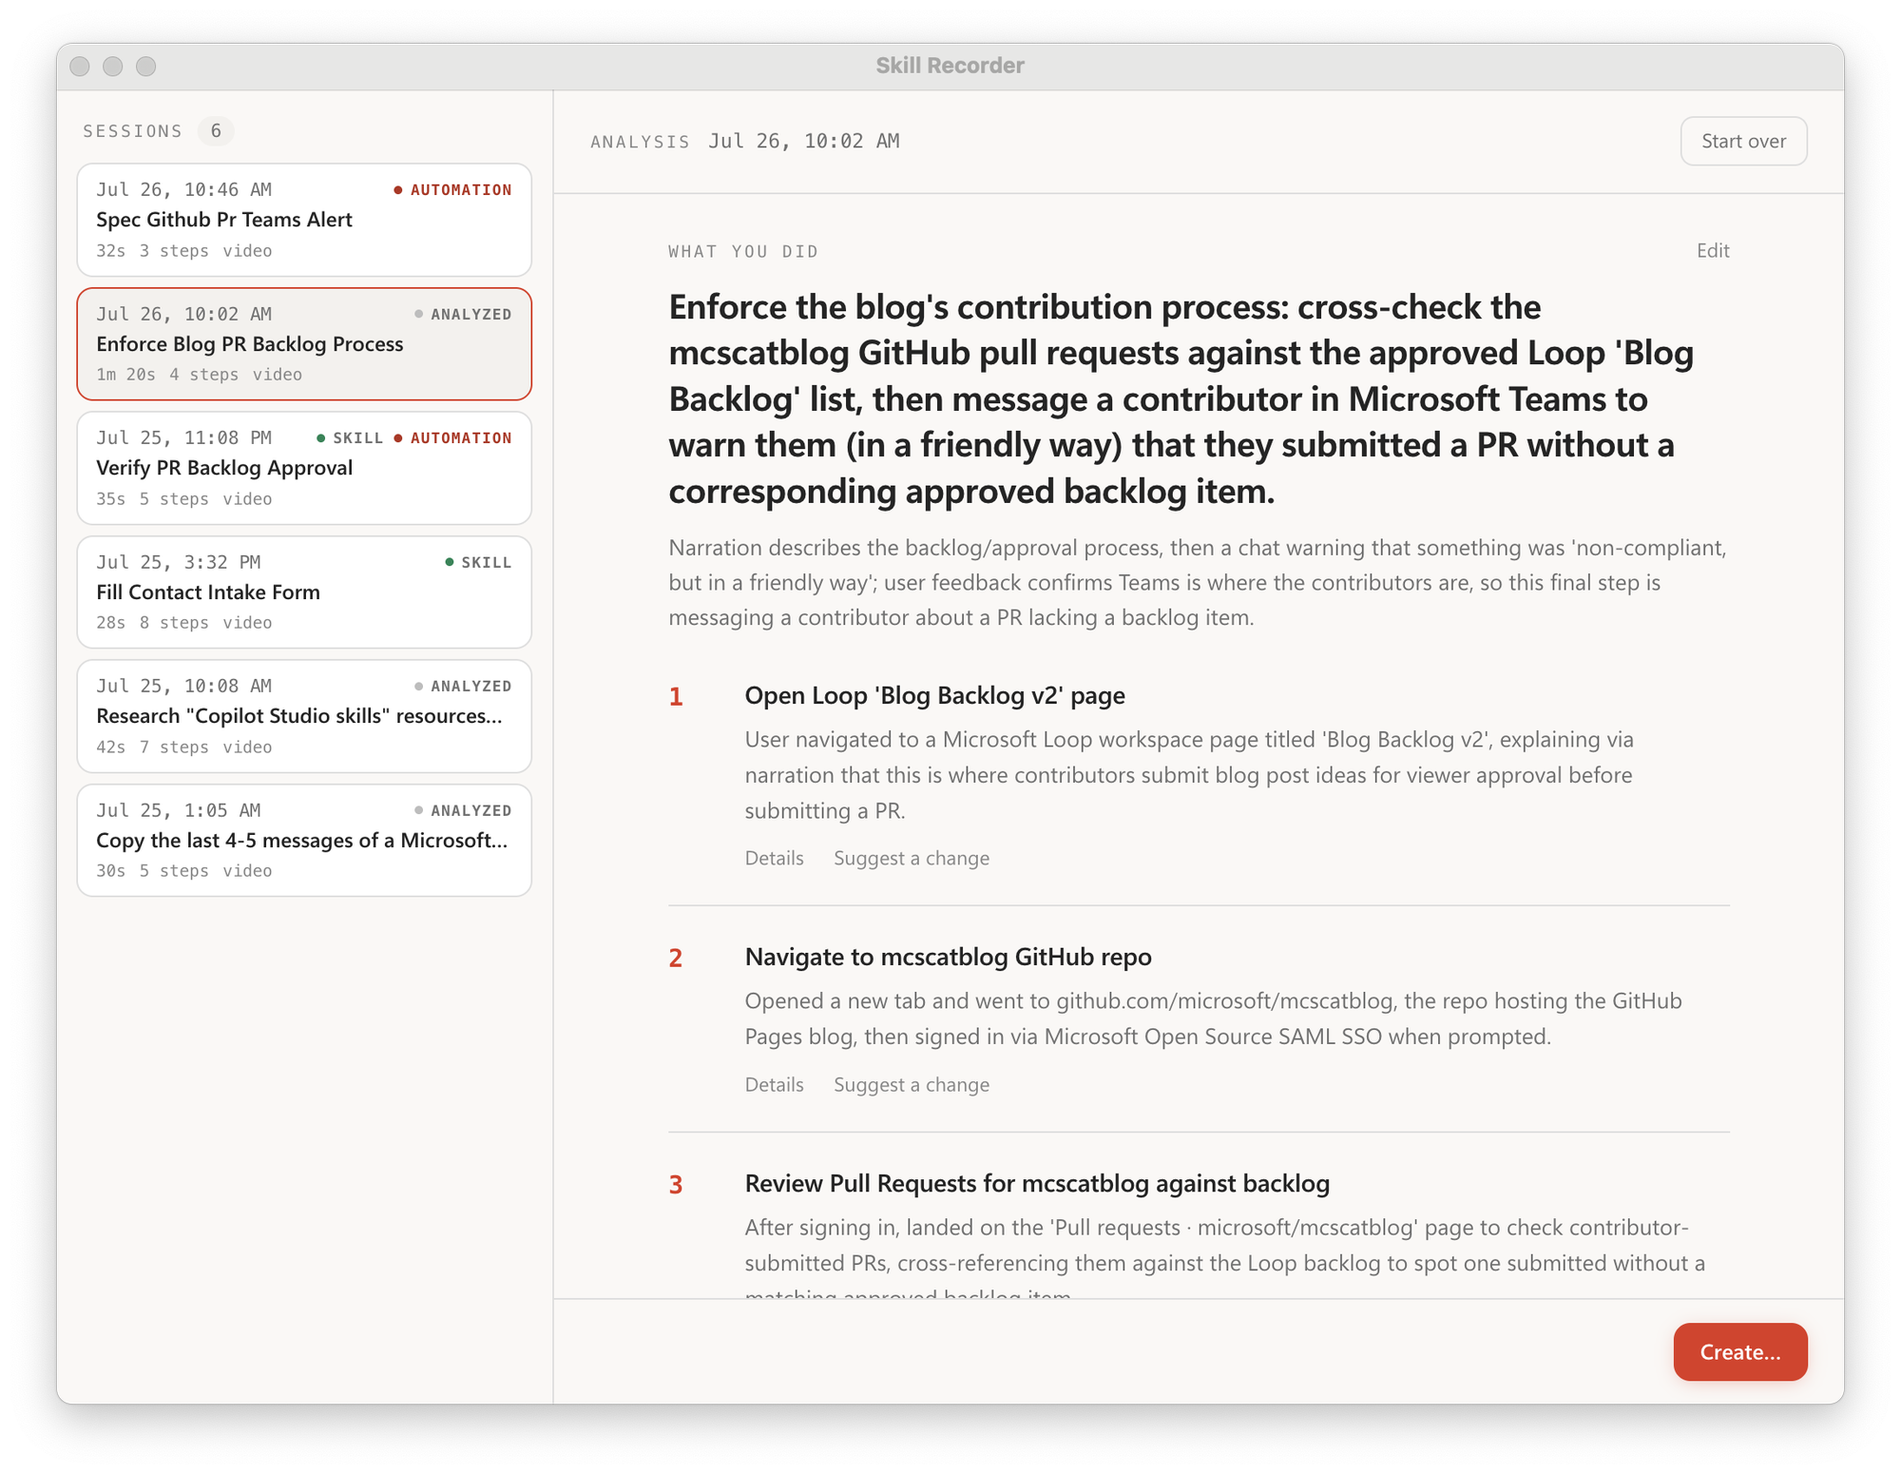
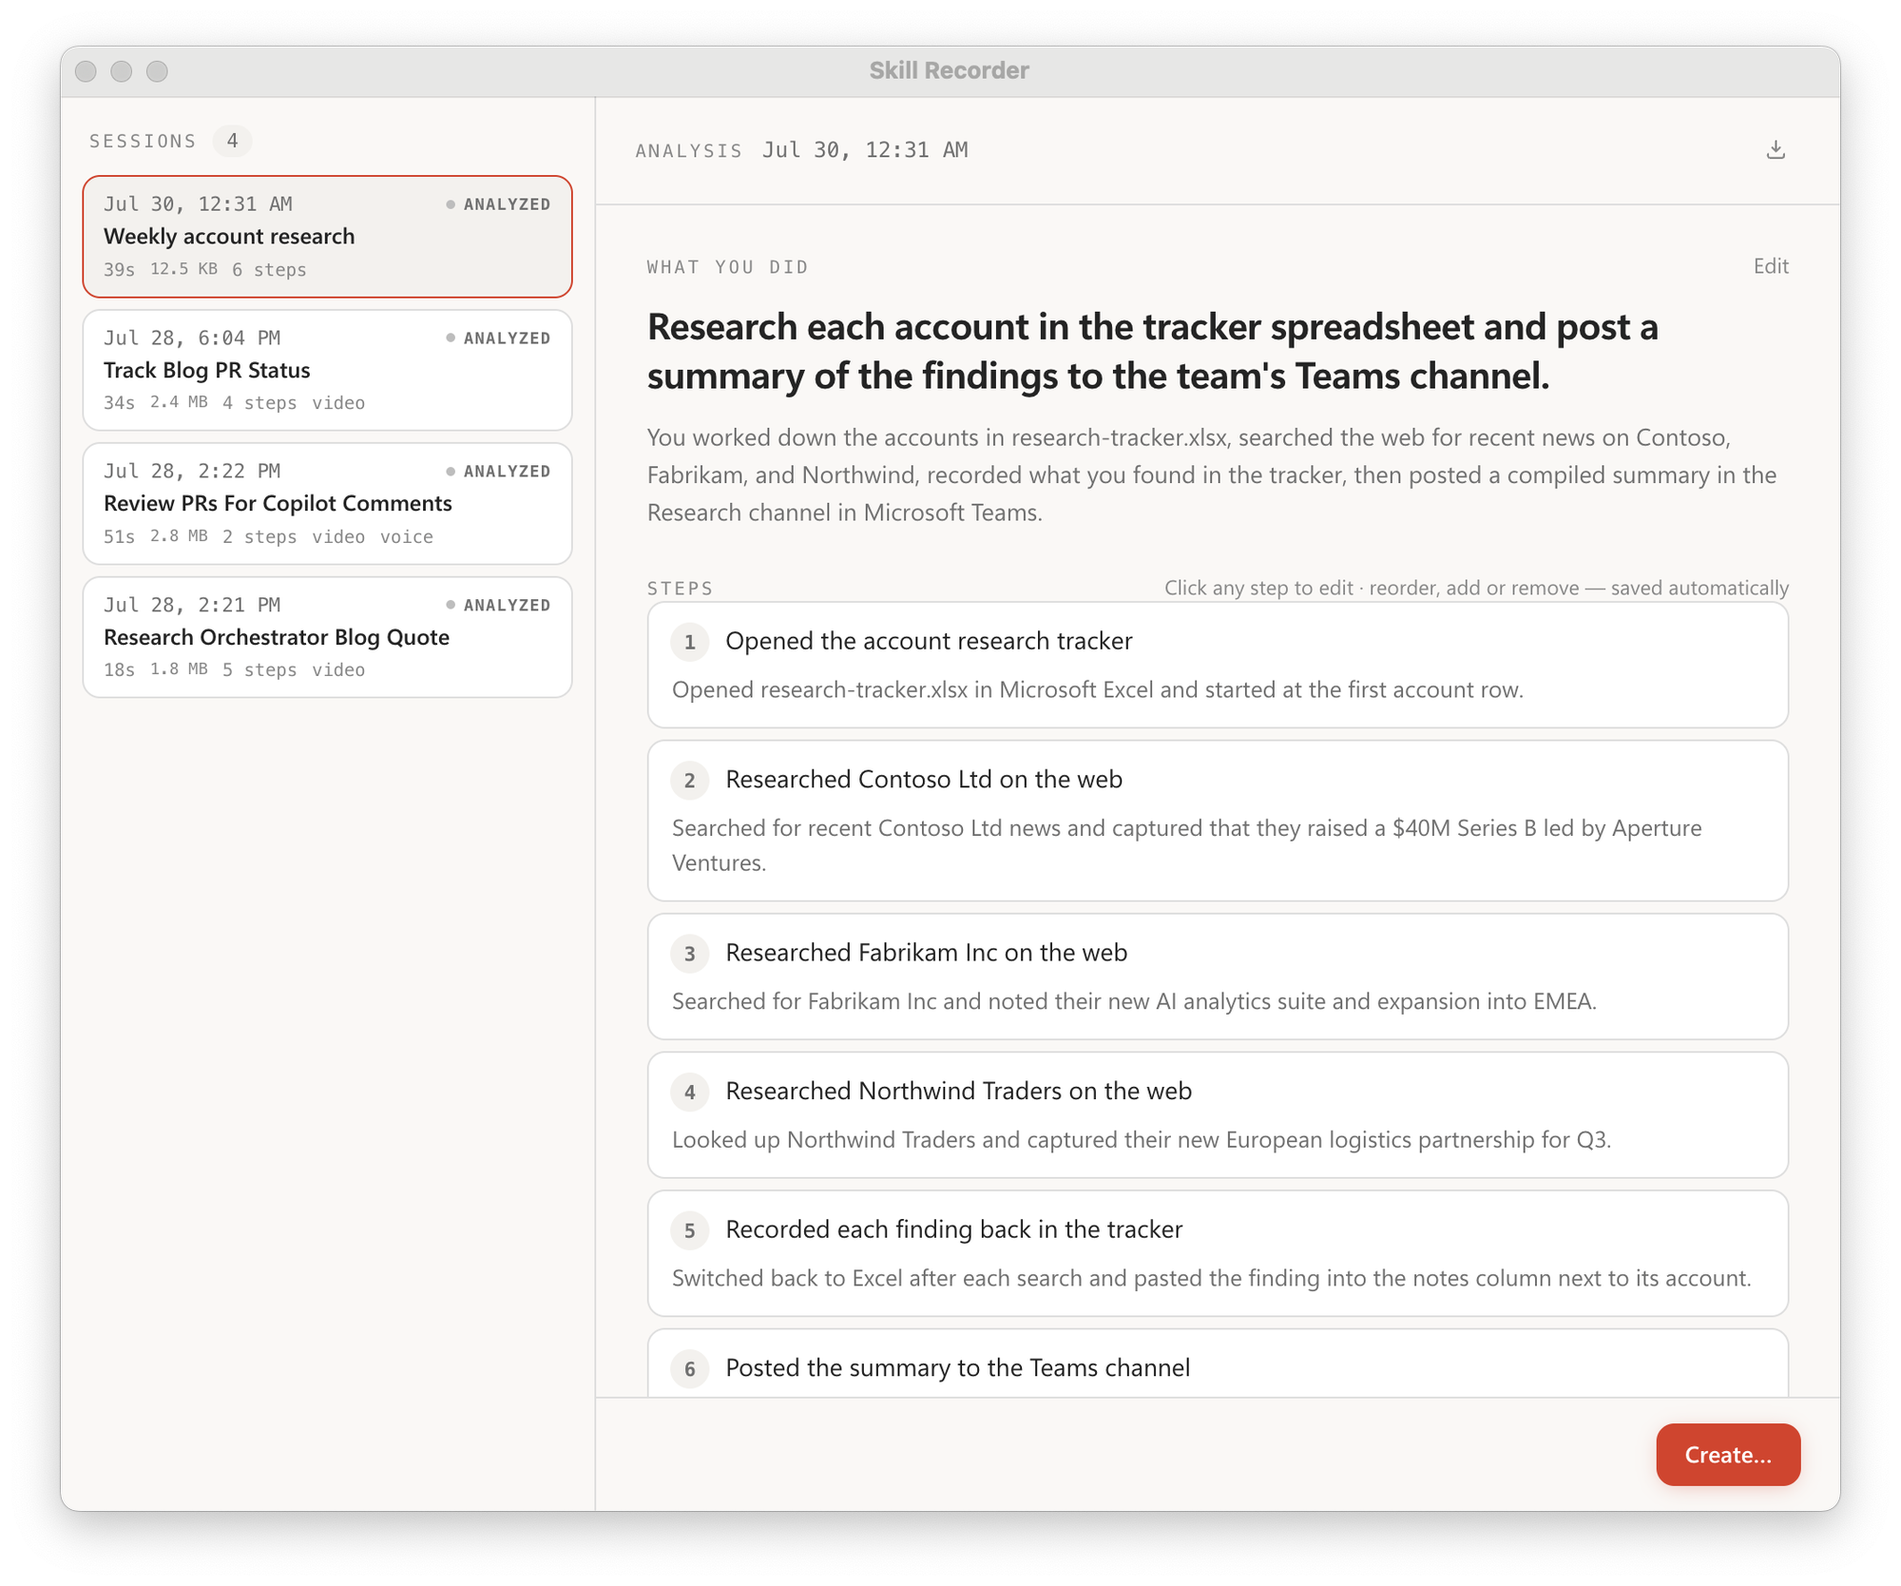
Update README screenshots to current HUD and sessions views (#27)
* Update README screenshots to current HUD and sessions views

Swap the two README images for up-to-date captures: the recorder HUD
with narration language/microphone settings, and the sessions view
showing a reconstructed intent with its ordered steps.

* Simplify README: clearer install flow, standalone Security/Support, no em-dashes

- Restructure Get started into 'Install it' / 'Then record' with per-platform
  command blocks and notes; lift the macOS-primary/Windows-supported note up top
- Point installs at the latest release page; keep the general command pattern
- Split Security and Support into their own sections
- Remove em-dashes throughout; de-duplicate the WINDOWS-VALIDATION link

---------

diff --git a/README.md b/README.md
@@ -1,158 +1,122 @@
 # Skill Recorder
 
-**Record yourself doing a task once — turn it into a skill your AI agent can repeat.**
+**Record yourself doing a task once, then turn it into a skill your AI agent can repeat.**
 
-Skill Recorder captures a real work session on your screen — the clicks, the app and
-window switches, the pages you visit, and (if you want) your spoken narration — then uses
+Skill Recorder captures a real work session on your screen: the clicks, the app and
+window switches, the pages you visit, and (if you want) your spoken narration. It then uses
 the **GitHub Copilot CLI** to reconstruct *what you actually did* as a clear **intent plus
 an ordered list of steps**. From there, one step turns that single run into something an
 agent can reuse:
 
-- a **Skill** — a `SKILL.md` procedure an agent runs on demand, or
-- an **Automation** — the same procedure on a schedule or trigger.
+- a **Skill**: a `SKILL.md` procedure an agent runs on demand, or
+- an **Automation**: the same procedure on a schedule or trigger.
 
 Both prefer the agent's **native tools** (like the `gh` CLI or `web_fetch`) over replaying
-UI clicks, and generalize from your one example — so recording yourself submitting *one*
+UI clicks, and generalize from your one example, so recording yourself submitting *one*
 form can teach the agent to submit *all* of them.
 
 <p align="center">
-  <img src="docs/images/recorder.png" alt="Skill Recorder capture window: a record button, timer, optional narration toggle, and readiness checks" width="420">
+  <img src="docs/images/recorder.png" alt="Skill Recorder capture window: a record button, timer, an optional narration toggle with language and microphone settings, and readiness checks" width="420">
   &nbsp;&nbsp;
-  <img src="docs/images/library.png" alt="Skill Recorder library: recorded sessions on the left, the reconstructed intent and ordered steps on the right" width="520">
+  <img src="docs/images/library.png" alt="Skill Recorder sessions view: recorded sessions on the left, the reconstructed intent and ordered steps on the right" width="520">
 </p>
 
 ## How it works
 
-1. 🔴 **Record** — Hit record (or `⌘⇧R` / `Ctrl+Shift+R` from anywhere) and just do your
+1. 🔴 **Record.** Hit record (or `⌘⇧R` / `Ctrl+Shift+R` from anywhere) and just do your
    task. Skill Recorder captures your screen and activity locally, in the background.
-2. 🎛 **Control** — While recording, a small always-on-top bar shows capture and
-   microphone state. Mute, unmute, or switch mics on the fly, then finish — or discard
+2. 🎛 **Control.** While recording, a small always-on-top bar shows capture and
+   microphone state. Mute, unmute, or switch mics on the fly, then finish, or discard
    (with a confirmation) if the take didn't go to plan.
-3. 🧠 **Analyze** — Click Analyze and GitHub Copilot reconstructs one overall intent and
+3. 🧠 **Analyze.** Click Analyze and GitHub Copilot reconstructs one overall intent and
    an ordered list of steps. Review and edit until it reads right.
-4. ✨ **Create** — From an approved analysis, generate a reusable **Skill** and/or a
+4. ✨ **Create.** From an approved analysis, generate a reusable **Skill** and/or a
    scheduled **Automation**.
 
 ## Get started
 
+Skill Recorder is published as a **source release**: one command downloads a pinned Node.js
+runtime, builds the exact release commit on your machine, and adds a **Skill Recorder (Source)**
+app you can relaunch anytime. Nothing is installed globally. You'll need a GitHub account with
+**Copilot access**; the Copilot CLI ships with the app.
+
+macOS is the primary target. Windows 11 (x64 and ARM64) is supported too (see
+[`WINDOWS-VALIDATION.md`](WINDOWS-VALIDATION.md)).
+
+### Install it
+
+Open the **[latest release](https://github.com/microsoft/skill-recorder/releases/latest)** and
+copy the command for your platform. Each release pins an exact commit, so the real command looks
+like the patterns below with `<40-character-release-commit>` filled in.
+
 **macOS / Ubuntu**
 
-```sh
+```bash
 commit="<40-character-release-commit>"; curl -fsSL "https://raw.githubusercontent.com/microsoft/skill-recorder/$commit/install.sh" | SKILL_RECORDER_COMMIT="$commit" bash
 ```
 
-The release commit pins both the downloaded script and the source it builds. To keep the
-application running after the terminal closes, add `SKILL_RECORDER_DETACHED=1` after the
-pipe:
+The commit pins both the downloaded script and the source it builds. To keep the app running
+after the terminal closes, add `SKILL_RECORDER_DETACHED=1` after the pipe:
 
-```sh
+```bash
 commit="<40-character-release-commit>"; curl -fsSL "https://raw.githubusercontent.com/microsoft/skill-recorder/$commit/install.sh" | SKILL_RECORDER_COMMIT="$commit" SKILL_RECORDER_DETACHED=1 bash
 ```
 
-On macOS the installer also adds a **Skill Recorder (Source)** app to `~/Applications`, so
-you can relaunch it later from Spotlight, Launchpad, or the Dock without re-running the
-command. On Ubuntu it adds a matching application entry.
+On macOS this adds a **Skill Recorder (Source)** app to `~/Applications` (relaunch from Spotlight,
+Launchpad, or the Dock). On Ubuntu it adds a matching application entry.
 
-**Windows**
+**Windows (PowerShell)**
 
-Use the commit-pinned source installer documented in [`INSTALL.md`](INSTALL.md). The
-published command must identify a full 40-character release commit. It downloads a
-verified portable Node.js 24 runtime, builds that exact source revision locally, preserves
-the required license materials, and creates **Skill Recorder (Source)** shortcuts on your
-desktop and in the Start Menu — all without installing Node system-wide. When it finishes
-it prints where both shortcuts were saved. Re-running the same command with the same
-commit reuses the installed revision instead of downloading and rebuilding it again.
+```powershell
+$commit="<40-character-release-commit>"; $env:SKILL_RECORDER_COMMIT=$commit; irm "https://raw.githubusercontent.com/microsoft/skill-recorder/$commit/install.ps1" | iex
+```
 
-Both paths install dependencies from their publishers and build Skill Recorder locally.
-The platform-specific Copilot CLI is installed with the application dependencies; a global
-CLI installation is not required. The first time you choose *Analyze* without stored
-Copilot credentials, Skill Recorder says so and offers **Sign in to Copilot**, which opens
-a terminal running the bundled CLI's `login` command (the same command is shown so you can
-run it yourself). On first launch, macOS asks for **Screen Recording**
-permission — grant it and you're ready to record.
+This adds **Skill Recorder (Source)** shortcuts to your desktop and Start Menu.
+
+### Then record
+
+1. **Grant Screen Recording.** On first launch, macOS asks for Screen Recording permission;
+   grant it and you're ready to record.
+2. **Record, Analyze, Create.** Do your task, then Analyze. The first time you Analyze,
+   Skill Recorder offers **Sign in to Copilot** if you aren't signed in yet.
+
+To inspect the script before running it, set install options, update, or uninstall, see
+[`INSTALL.md`](INSTALL.md).
 
 > ⚠ **Keep secrets out of your recordings.** Don't record, type, paste, or narrate
-> passwords, tokens, API keys, or other confidential info — choosing *Analyze* sends
+> passwords, tokens, API keys, or other confidential info. Choosing *Analyze* sends
 > recording data to GitHub's cloud. Skill Recorder reminds you before every recording.
 > Details in [What gets captured](#what-gets-captured).
 
-<details>
-<summary>Source installer options &amp; updating</summary>
-
-Set any of these environment variables when you run the command:
-
-| Variable | Default | What it does |
-| --- | --- | --- |
-| `SKILL_RECORDER_COMMIT` | *(required)* | exact 40-character source commit |
-| `SKILL_RECORDER_INSTALL_ROOT` | per-user platform path | source and portable runtime location |
-| `SKILL_RECORDER_NO_LAUNCH` | *(unset)* | set to `1` to install without launching |
-| `SKILL_RECORDER_NO_DESKTOP_SHORTCUT` | *(unset)* | Windows: set to `1` to skip the desktop shortcut |
-| `SKILL_RECORDER_DETACHED` | *(unset)* | macOS/Ubuntu background launch with rolling logs |
-| `SKILL_RECORDER_LOG_KEEP` | `5` | macOS/Ubuntu detached log retention |
-
-Re-run the platform command with a new release commit to update. Inspect-first,
-platform-specific relaunch, and uninstall instructions are in [`INSTALL.md`](INSTALL.md).
-</details>
-
 ---
 
-*The rest of this README is for people who want the details — or want to hack on the code.*
-
-## Requirements
-
-- **macOS** (primary target). Windows 11 x64 and ARM64 are also supported — see
-  [`WINDOWS-VALIDATION.md`](WINDOWS-VALIDATION.md).
-- **Node.js 24** for manual source development. Installers provide a private runtime when
-  needed.
-- A GitHub account with **Copilot access** and authentication. Dependency installation
-  includes the platform-specific Copilot CLI used by the SDK.
-- No system media tools required — Chromium handles screen snapshots and narration audio
-  decoding. A system `ffmpeg` is only used to open recordings made by an older Skill
-  Recorder version that has no snapshot manifest.
-
-On first launch macOS prompts for **Screen Recording** (required). Turning on **Narrate**
-requests **Microphone** permission immediately so you can pick a named input before
-recording; that permission-check stream is released without saving any audio.
+*Everything below is for people who want the details, or want to hack on the code.*
 
 ## What gets captured
 
 Recording, storage, frame extraction, and optional narration transcription all happen
-**on your computer** — nothing leaves while you record. Only when you choose **Analyze**
+**on your computer**; nothing leaves while you record. Only when you choose **Analyze**
 does Skill Recorder send the event timeline (window/document titles, URLs, and clipboard
-previews), extracted screen images, narration text, and anything else you provide to
-GitHub's cloud service for Copilot to process.
+previews), extracted screen images, and narration text to GitHub's cloud for Copilot to
+process.
+
+The in-app "Records your screen and activity" panel spells out exactly what's collected:
+
+- **Window tracking:** active-app / window switches.
+- **Browser URLs:** the page you're on (macOS).
+- **Screen video:** recorded by Chromium; low-rate snapshots are kept only when the
+  screen changes or a heartbeat is due.
+- **Clipboard:** short previews of copied text that tie steps together.
+- **Narration** *(optional)*: spoken commentary, transcribed **on-device** in any of
+  Whisper's 99 supported languages (a one-time ~252 MB model download on first use).
 
 > ⚠ **Please don't capture secrets.** Passwords, access tokens, API keys, credentials, and
 > other confidential information should never be recorded, typed, pasted, shown, copied,
 > or narrated during a session.
 
-The in-app "Records your screen and activity" panel spells out exactly what's collected:
+## Develop from source
 
-- **Window tracking** — active-app / window switches (Koffi/Win32 on Windows,
-  `get-windows` elsewhere).
-- **Browser URLs** — the page you're on (macOS, via AppleScript).
-- **Screen video** — recorded by Chromium; low-rate snapshots are captured alongside it
-  and retained only when the screen changes or a heartbeat is due.
-- **Clipboard** — short previews of copied text that tie steps together.
-- **Narration** *(optional)* — turn on **Narrate** before capture or toggle the microphone
-  from the floating recording bar. Narrate shows the active input and remembers a selected
-  microphone, with an explicit **System default** fallback. During capture, the bar can
-  switch inputs without interrupting screen recording; each microphone-on interval is
-  timestamped on the video timeline, saved locally, and can be transcribed **on-device** in
-  any of Whisper's 99 supported languages (via transformers.js), preserving the selected
-  language. The first transcription uses an explicit, one-time ~252 MB model download. The
-  multilingual q8 checkpoint is only about 0.6 MB larger than the previous English-only
-  model and uses the same `small` architecture, so runtime memory and transcription speed
-  are expected to remain effectively unchanged.
-
-## Install or develop from source
-
-See [`INSTALL.md`](INSTALL.md) for the commit-pinned Windows source installer,
-the inspect-first alternative, manual developer setup, updates, uninstallation,
-and the licensing boundary between local source builds and redistributable
-packages.
-
-For development after checking out an exact revision:
+Requires **Node.js 24**. After checking out a release revision:
 
 ```bash
 npm ci
@@ -160,44 +124,42 @@ npm run compliance:licenses
 npm run dev
 ```
 
-`npm run dev` starts Vite and launches the Electron app with hot-reload. The app also
-lives in the menu-bar tray; `⌘⇧R` (macOS) / `Ctrl+Shift+R` (Windows) toggles recording
-from anywhere. On Windows, press `F12` while the recorder or Sessions window is focused to
-toggle DevTools during development.
-
-Other useful scripts:
-
-```bash
-npm run typecheck   # tsc --noEmit
-npm run build       # typecheck + production build (dist/ + dist-electron/)
-npm run dist        # build a compliant non-Windows distributable in release/
-npm run dist:win:x64    # requires native Windows x64
-npm run dist:win:arm64  # requires native Windows ARM64
-npm run dist:portable:mac # compliant unsigned macOS ZIP
-npm run dist:portable:win # compliant unsigned Windows x64 portable executable
-npm run compliance:licenses # validate the installed dependency license inventory
-npm start           # run the last build with `electron .`
-```
-
-Distributable builds download the exact corresponding-source archives and
-license materials required by bundled native libraries. They are packaged
-outside the ASAR under `resources/compliance/`; a release fails if any required
-notice, source archive, or relinking instruction is missing or differs from its
-reviewed SHA-256. Locally generated source builds must not be redistributed.
-
-Maintainers must follow [`RELEASING.md`](RELEASING.md) when changing versions,
-dependencies, assets, release notes, tags, source installers, or binary
-downloads.
+`npm run dev` starts Vite and launches the Electron app with hot-reload; `⌘⇧R` (macOS) /
+`Ctrl+Shift+R` (Windows) toggles recording from anywhere. Full manual setup, the build and
+`dist` scripts, and the licensing boundary between local source builds and redistributable
+packages are in [`INSTALL.md`](INSTALL.md). Maintainers changing versions, dependencies,
+assets, or releases must follow [`RELEASING.md`](RELEASING.md).
 
 ## Evals
 
-The variable part of the system — the Copilot **describer** and **builders** — has a
-fixture-based eval suite. See [`evals/README.md`](evals/README.md).
+The Copilot **describer** and **builders** have a fixture-based eval suite; see
+[`evals/README.md`](evals/README.md).
 
 ```bash
 npm run eval            # score the describer against synthetic recordings
 npm run eval:builder    # score the skill/automation generalization
 ```
+
+## Documentation
+
+- **[INSTALL.md](INSTALL.md):** install options, inspect-first install, updating,
+  uninstalling, and manual developer setup.
+- **[RELEASING.md](RELEASING.md):** maintainer release runbook.
+- **[evals/README.md](evals/README.md):** the describer / builder eval harness.
+- **[THIRD-PARTY-NOTICES.md](THIRD-PARTY-NOTICES.md):** licenses for bundled dependencies.
+
+## Security
+
+Please don't report security vulnerabilities through public GitHub issues. See
+[`SECURITY.md`](SECURITY.md) for Microsoft's coordinated-disclosure process and reporting
+channels.
+
+## Support
+
+File bugs and feature requests through
+**[GitHub Issues](https://github.com/microsoft/skill-recorder/issues)** (search existing issues
+first to avoid duplicates). Support is limited to the resources described in
+[`SUPPORT.md`](SUPPORT.md).
 
 ## License
 
